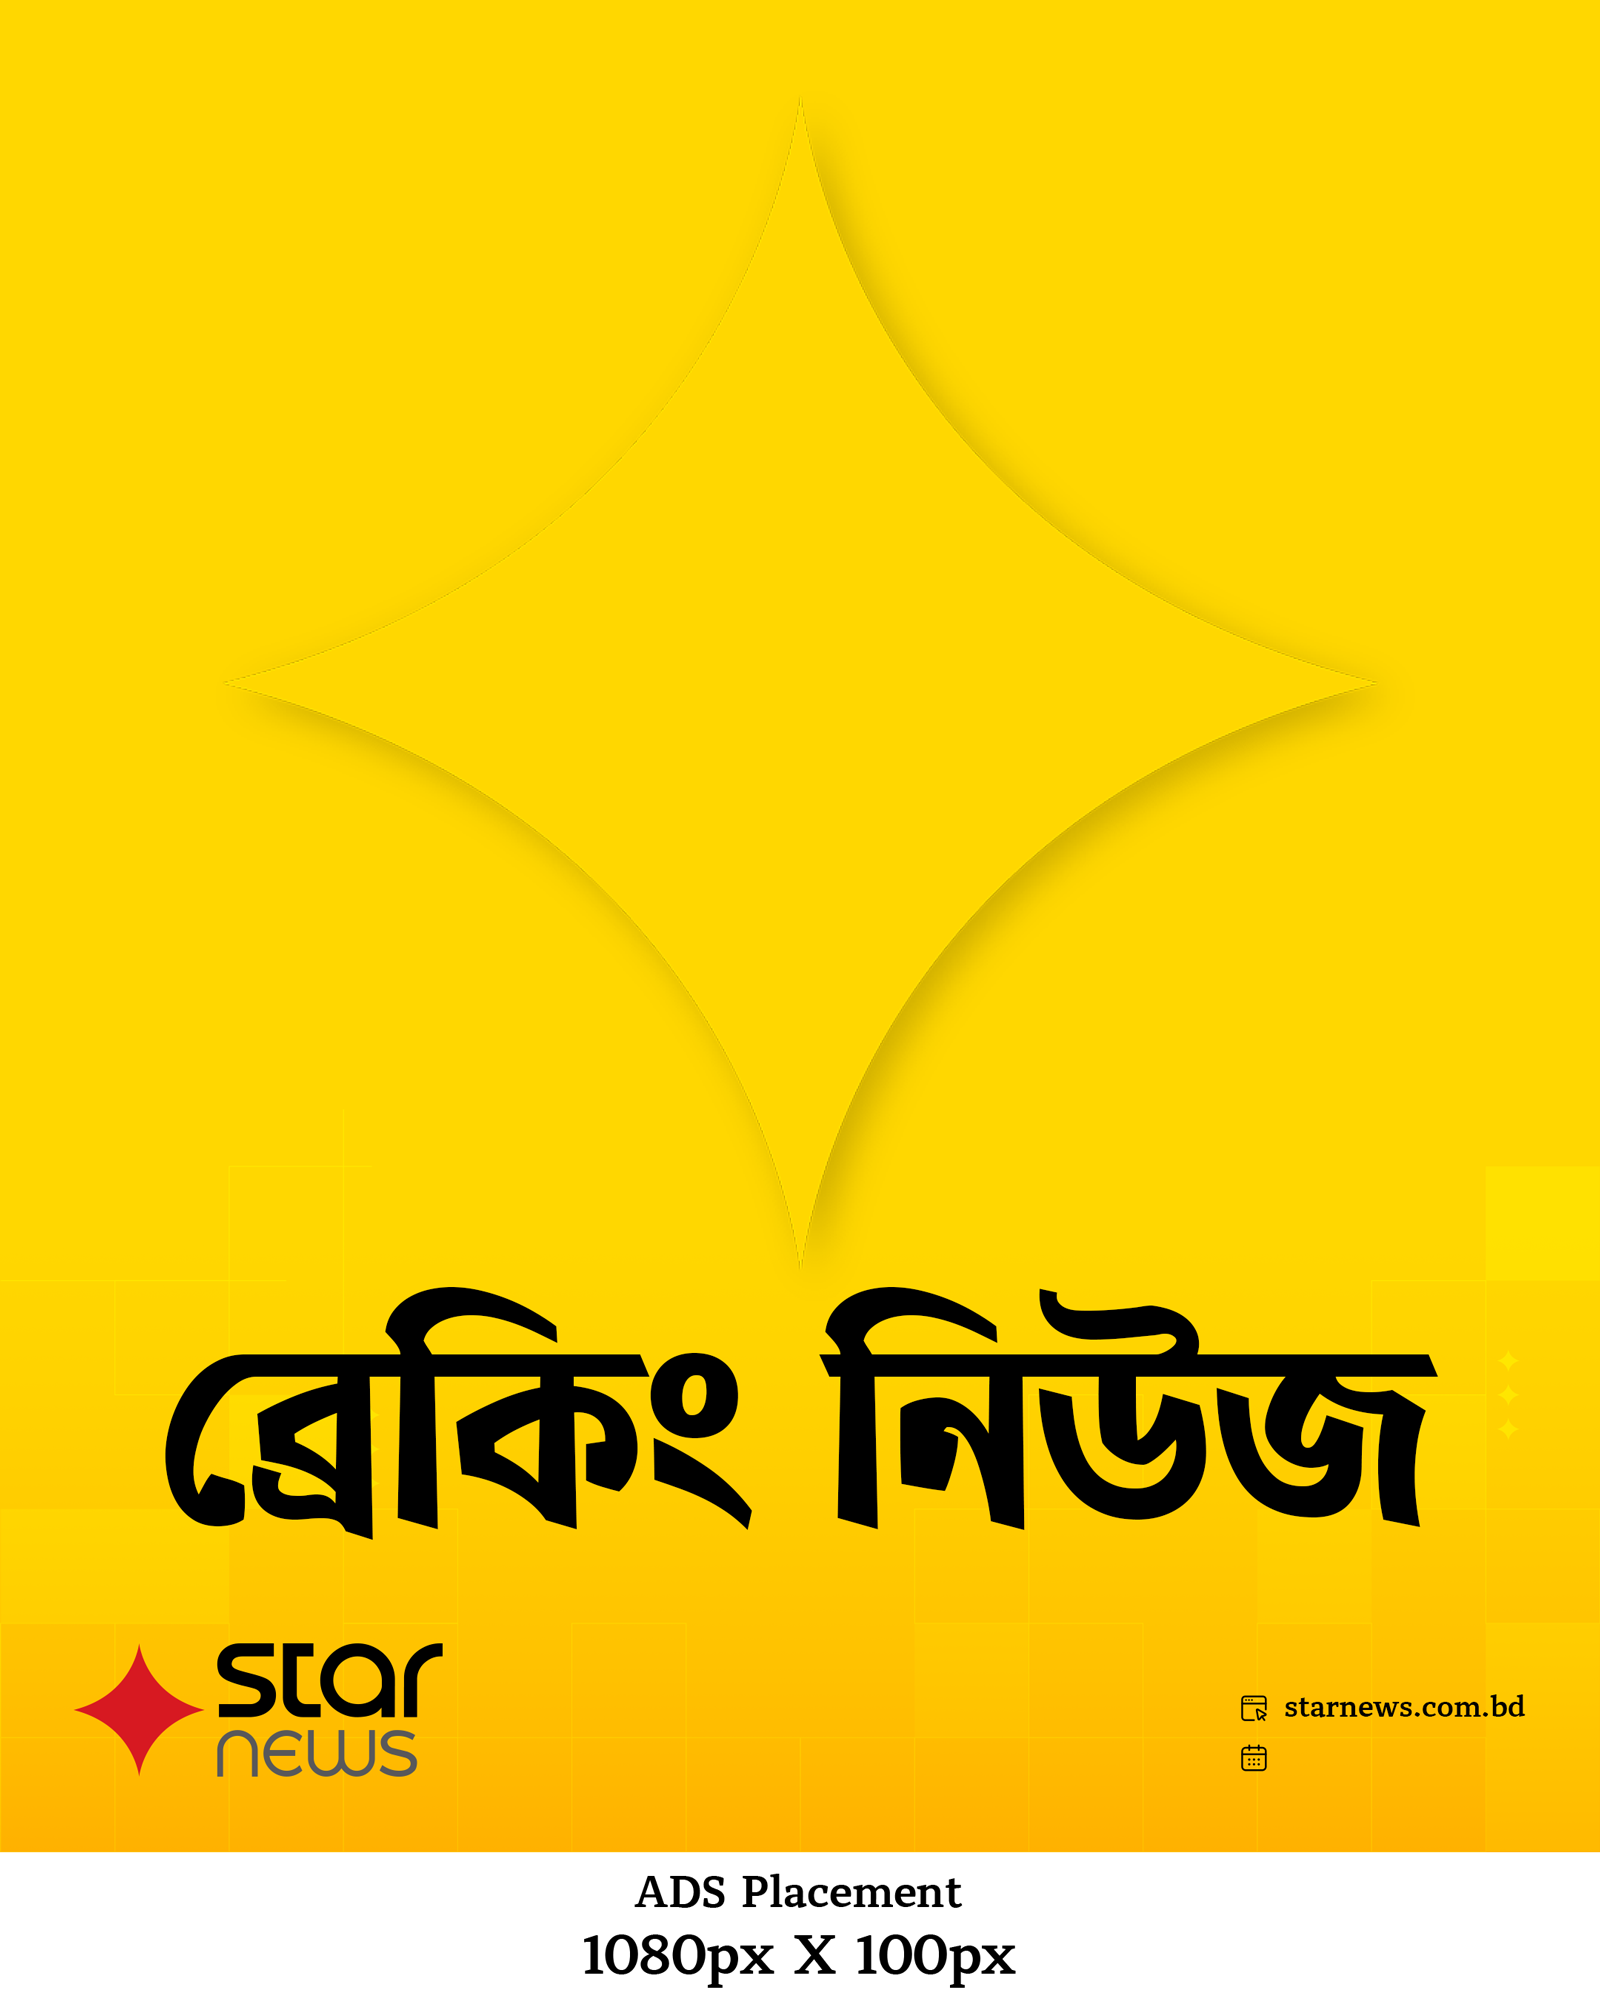
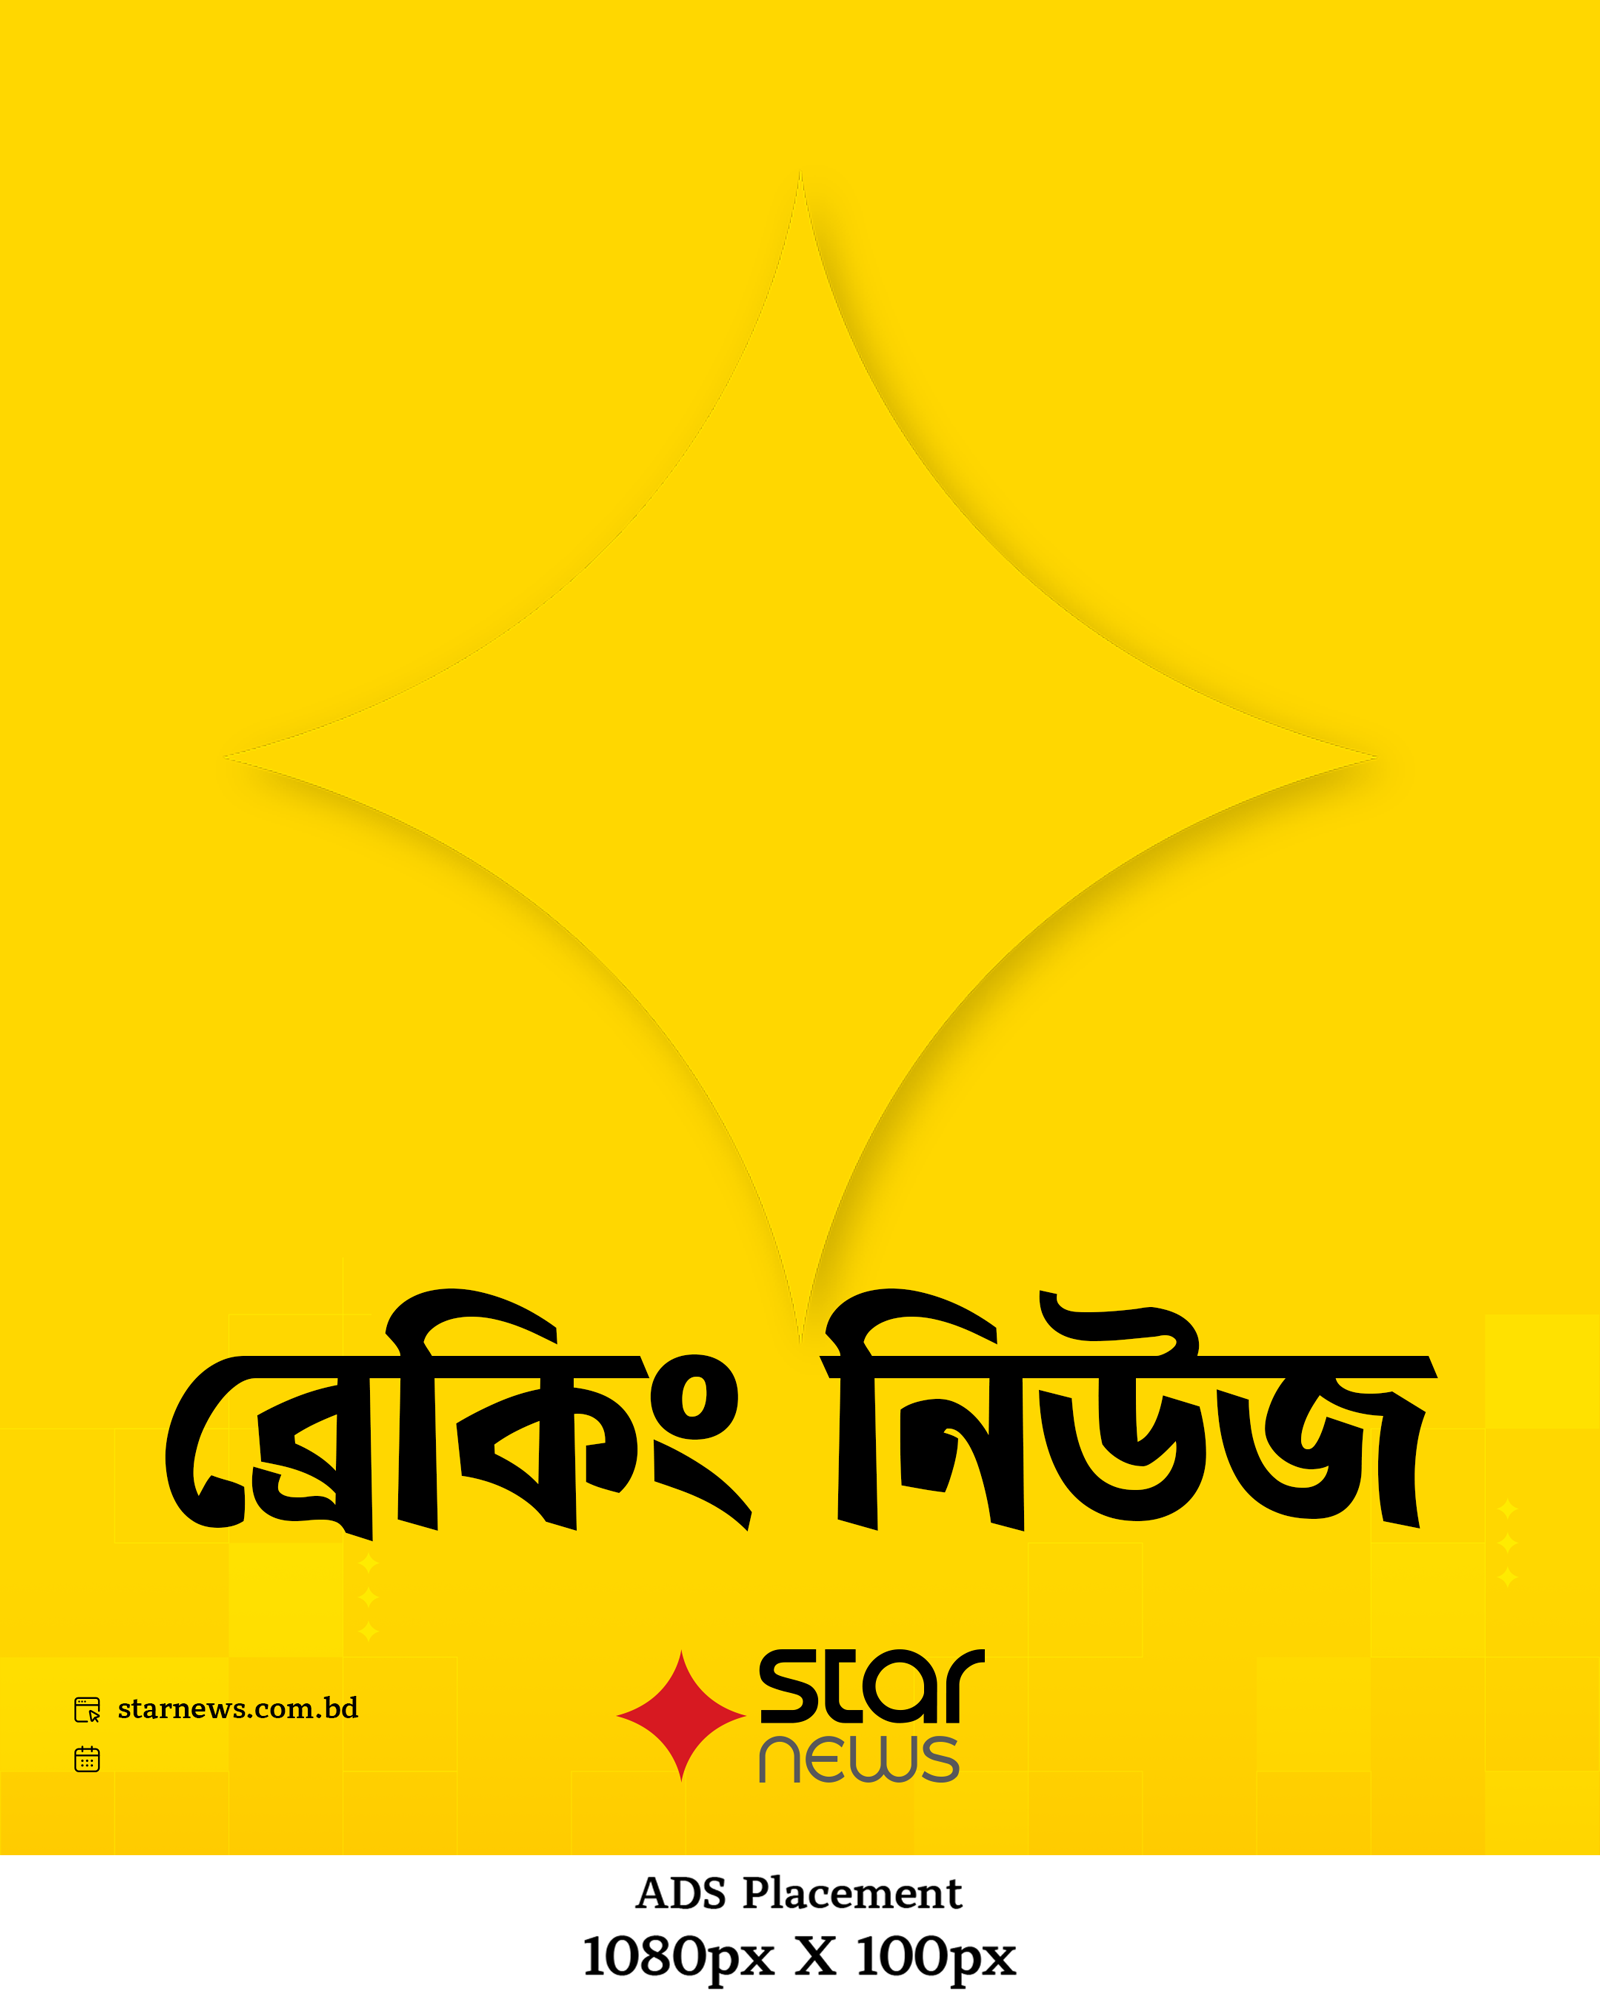
Breaking Card Correcction

diff --git a/src/config/templates.ts b/src/config/templates.ts
@@ -372,7 +372,7 @@ export const templates: readonly TemplateDefinition[] = [
     canvas,
     photo: null,
     photoFit: 'cover', // no photo window; unused
-    date: dateAt(1886),
+    date: dateLeft(1888), // redesigned stack: calendar icon 1892–1918 (centre 1905)
     dateAlign: 'left',
     dateColor: BLACK,
     photoTag: null,
@@ -383,13 +383,15 @@ export const templates: readonly TemplateDefinition[] = [
     titleShadow: false,
     // Yellow on the yellow card would vanish; emphasis stays black.
     highlightColor: null,
-    // Breaking art keeps the old right-hand meta stack; only the QR moves.
+    // Redesigned art: meta stack bottom-left, logo centred; QR sits right of the logo.
     qr: qrLayout(732, 1215),
     metaRows: 2,
     // Ad art: star and baked "ব্রেকিং নিউজ" are 82 px higher.
     ad: adVariant('/templates/ad-breaking-news.png', {
       titleRegion: rect(64, 330 - 82, 1472, 1300),
       title: title(96, 393 - 82, 1408),
+      // Footer moved 146 px, not 148: calendar icon 1746–1771.
+      date: dateLeft(1742),
     }),
   },
 ];
